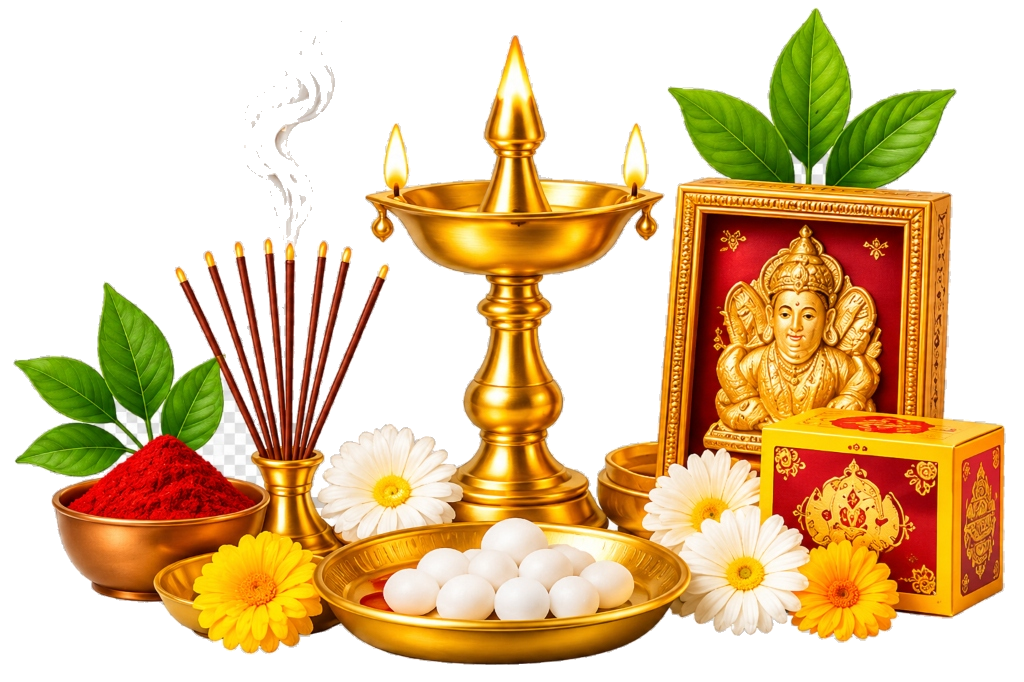
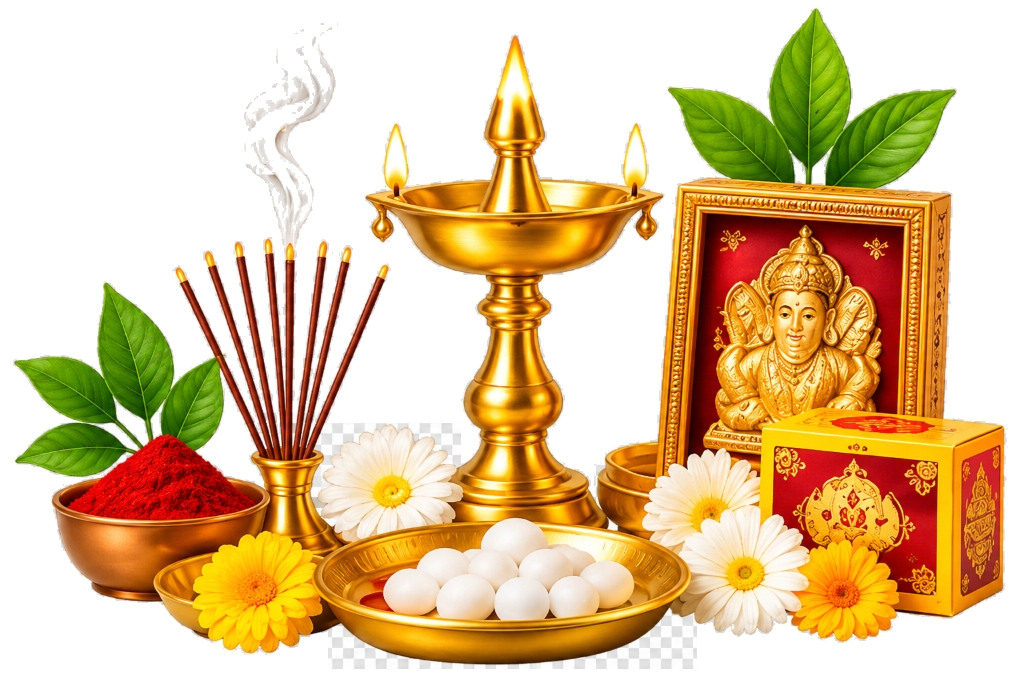
Reduce size of Pooja hero image and clean enclosed checkerboard pixels

diff --git a/src/components/Hero.tsx b/src/components/Hero.tsx
@@ -50,6 +50,7 @@ export const Hero: React.FC = () => {
       tagBadge: 'Fresh Deals Today',
       imageSrc: '/images/hero-products.png',
       imageAlt: 'Be My Shopper Daily Essentials Collage',
+      imageClass: 'max-h-[330px] sm:max-h-[380px] lg:max-h-[420px] w-auto max-w-full',
     },
     {
       id: 'pooja',
@@ -83,6 +84,7 @@ export const Hero: React.FC = () => {
       tagBadge: 'Pooja Specials',
       imageSrc: '/images/hero-pooja.png',
       imageAlt: 'Be My Shopper Pooja Essentials Collage',
+      imageClass: 'max-h-[270px] sm:max-h-[310px] lg:max-h-[350px] w-auto max-w-[85%]',
     },
   ];
 
@@ -247,7 +249,7 @@ export const Hero: React.FC = () => {
                     </div>
 
                     {/* ================= RIGHT IMAGE & FLOATING BADGES (52% Width) ================= */}
-                    <div className="w-full lg:w-[52%] relative h-full min-h-[380px] sm:min-h-[440px] lg:min-h-[500px] flex items-end justify-center lg:justify-end">
+                    <div className="w-full lg:w-[52%] relative h-full min-h-[380px] sm:min-h-[440px] lg:min-h-[500px] flex items-end justify-center lg:justify-end pb-3 sm:pb-5">
                       
                       {/* Floating Badge 1 (Top-Left) */}
                       <div className="absolute top-4 sm:top-8 left-2 sm:left-4 z-20 bg-white/95 backdrop-blur-md border border-emerald-100/90 rounded-2xl px-3.5 py-2.5 shadow-lg shadow-emerald-950/5 flex items-center gap-2.5 transition-transform hover:scale-105 cursor-pointer">
@@ -291,7 +293,7 @@ export const Hero: React.FC = () => {
                         <img
                           src={slide.imageSrc}
                           alt={slide.imageAlt}
-                          className="w-full max-h-[380px] sm:max-h-[430px] lg:max-h-[470px] object-contain object-bottom drop-shadow-[0_16px_36px_rgba(0,0,0,0.08)] select-none pointer-events-none transition-all duration-500"
+                          className={`${slide.imageClass} object-contain object-bottom drop-shadow-[0_16px_36px_rgba(0,0,0,0.08)] select-none pointer-events-none transition-all duration-500`}
                         />
                       </div>
 
